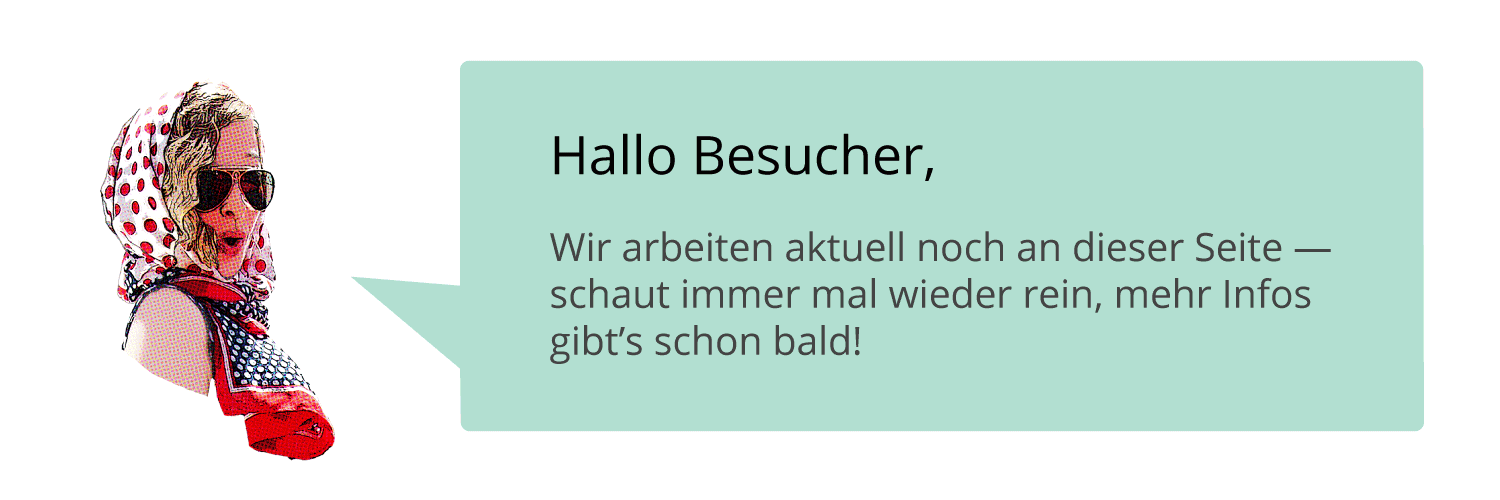
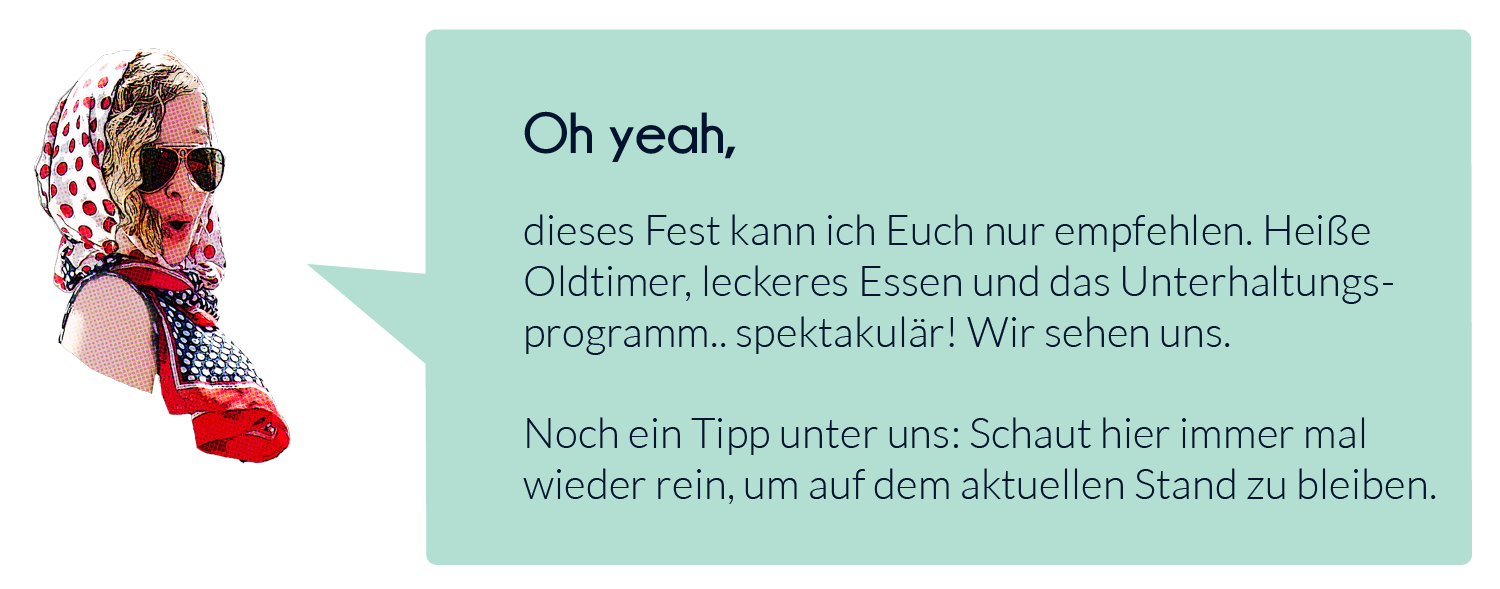
[TASK] Exchange speech bubble

diff --git a/docs/index.html b/docs/index.html
@@ -118,11 +118,18 @@
   <div class="container" style="margin-bottom: 5rem">
     <div class="row" >
       <div class="col-sm-12 text-center">
-        <img src="img/sprechblase_mehr_informationen.png" alt="Sprechblase mit Infotext: Wir arbeiten aktuell noch an dieser Seite — schaut immer mal wieder rein, mehr Infos gibt’s schon bald!" />
+        <img
+          src="img/sprechblase_mehr_informationen.png"
+          width="1500"
+          height="589"
+          alt="Sprechblase mit Infotext: dieses Fest kann ich Euch nur empfehlen. Heiße
+              Oldtimer, leckeres Essen und das Unterhaltungs-
+              programm.. spektakulär! Wir sehen uns.
+              Noch ein Tipp unter uns: Schaut hier immer mal
+              wieder rein, um auf dem aktuellen Stand zu bleiben" />
       </div>
     </div>
   </div>
-
 
   <div class="container" style="margin-bottom: 5rem">
     <header class="section-header text-center">
